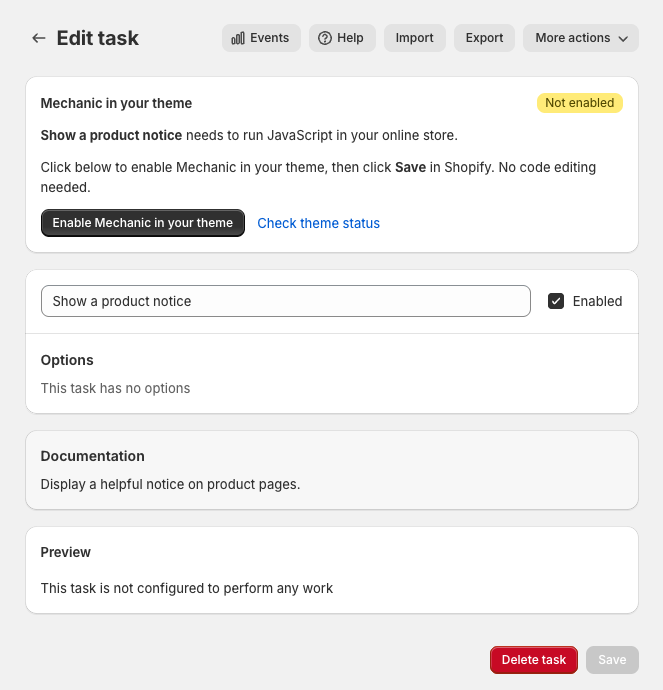
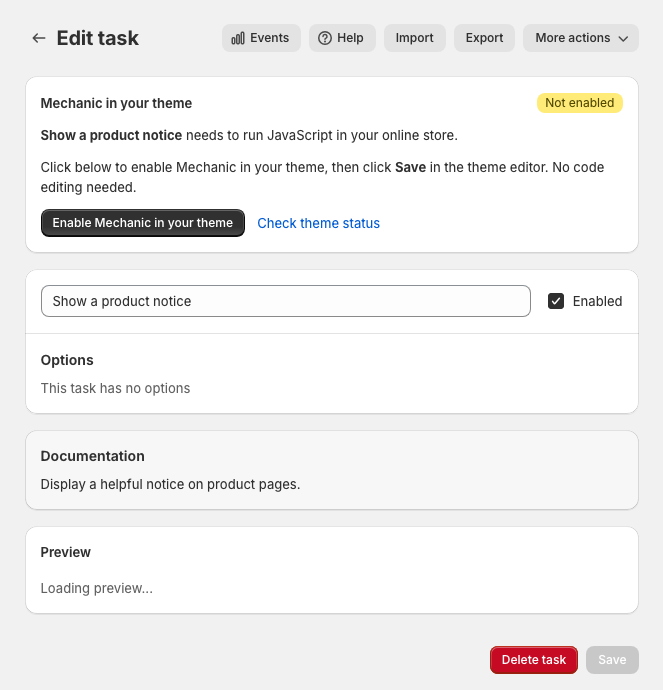
Clarify saving theme setup and refresh screenshots

diff --git a/resources/tutorials/triggering-tasks-from-a-contact-form.md b/resources/tutorials/triggering-tasks-from-a-contact-form.md
@@ -51,7 +51,7 @@ Next, we're going to write some JavaScript that listens for the`submit` event of
 
 Let's get started on our JavaScript. In the advanced task editor, open the **JavaScript** tab and find **JavaScript for Online Storefront**. This is where we'll add the code that runs on our shop frontend.
 
-After saving the task with JavaScript and leaving it enabled, complete theme setup if Mechanic prompts you: click **Enable Mechanic in your theme**, make sure Mechanic's **Online store JavaScript** is turned on under **App embeds**, and click **Save** in Shopify. Return to Mechanic to confirm setup. This setting serves all your enabled tasks that use storefront JavaScript, so you won't need to repeat it if it's already enabled in your published theme. [See the setup guide](../../core/tasks/advanced-settings/javascript.md#enable-mechanic-in-your-theme).
+After saving the task with JavaScript and leaving it enabled, complete theme setup if Mechanic prompts you: click **Enable Mechanic in your theme**, make sure Mechanic's **Online store JavaScript** is turned on under **App embeds**, and click **Save** in the theme editor. Return to Mechanic to confirm setup. This setting serves all your enabled tasks that use storefront JavaScript, so you won't need to repeat it if it's already enabled in your published theme. [See the setup guide](../../core/tasks/advanced-settings/javascript.md#enable-mechanic-in-your-theme).
 
 You'll still need to configure the webhook and match the JavaScript to your contact form, as described below. Test the finished form on the storefront outside the theme editor after saving your changes.
 

diff --git a/faq/does-my-theme-need-to-be-updated-for-mechanic.md b/faq/does-my-theme-need-to-be-updated-for-mechanic.md
@@ -2,7 +2,7 @@
 
 Most Mechanic tasks don't need anything enabled in your theme. Tasks that run JavaScript in your online store do: they use Mechanic's **Online store JavaScript** setting in the theme editor.
 
-If one of your enabled tasks needs this and setup is incomplete, Mechanic shows a **Mechanic in your theme** card on the homepage and the task page. Click **Enable Mechanic in your theme**, make sure **Online store JavaScript** is turned on under **App embeds**, and click **Save** in Shopify. Then return to Mechanic to confirm setup. [See the setup guide](../core/tasks/advanced-settings/javascript.md#enable-mechanic-in-your-theme).
+If one of your enabled tasks needs this and setup is incomplete, Mechanic shows a **Mechanic in your theme** card on the homepage and the task page. Click **Enable Mechanic in your theme**, make sure **Online store JavaScript** is turned on under **App embeds**, and click **Save** in the theme editor. Then return to Mechanic to confirm setup. [See the setup guide](../core/tasks/advanced-settings/javascript.md#enable-mechanic-in-your-theme).
 
 This is a one-time setup for your current theme and serves all your enabled tasks that use storefront JavaScript. You can leave it enabled when you disable a task; disabled tasks won't run on subsequent page loads. Enabling Mechanic doesn't require editing theme code.
 

diff --git a/core/tasks/advanced-settings/javascript.md b/core/tasks/advanced-settings/javascript.md
@@ -11,7 +11,7 @@ When an enabled task needs JavaScript in your online store, Mechanic shows a **M
 ![A task page showing which task needs JavaScript and the Enable Mechanic in your theme button.](../../../.gitbook/assets/mechanic-in-your-theme-task.png)
 
 1. Click **Enable Mechanic in your theme**. This opens your published theme in Shopify's theme editor in a new tab.
-2. Make sure Mechanic's **Online store JavaScript** is turned on in **App embeds**, then click **Save** in Shopify.
+2. Make sure Mechanic's **Online store JavaScript** is turned on in **App embeds**, then click **Save** in the theme editor.
 3. Return to Mechanic. The setup card disappears once Mechanic confirms the saved setting. If it hasn't refreshed, click **Check theme status**.
 
 If setup still can't be confirmed, check that you saved the setting in your published theme and try **Check theme status** again. If the problem continues, [contact Mechanic support](../../../support.md) with your shop domain and what you're seeing. Support can also help with the older integration's background cleanup; leave that cleanup to Mechanic.
